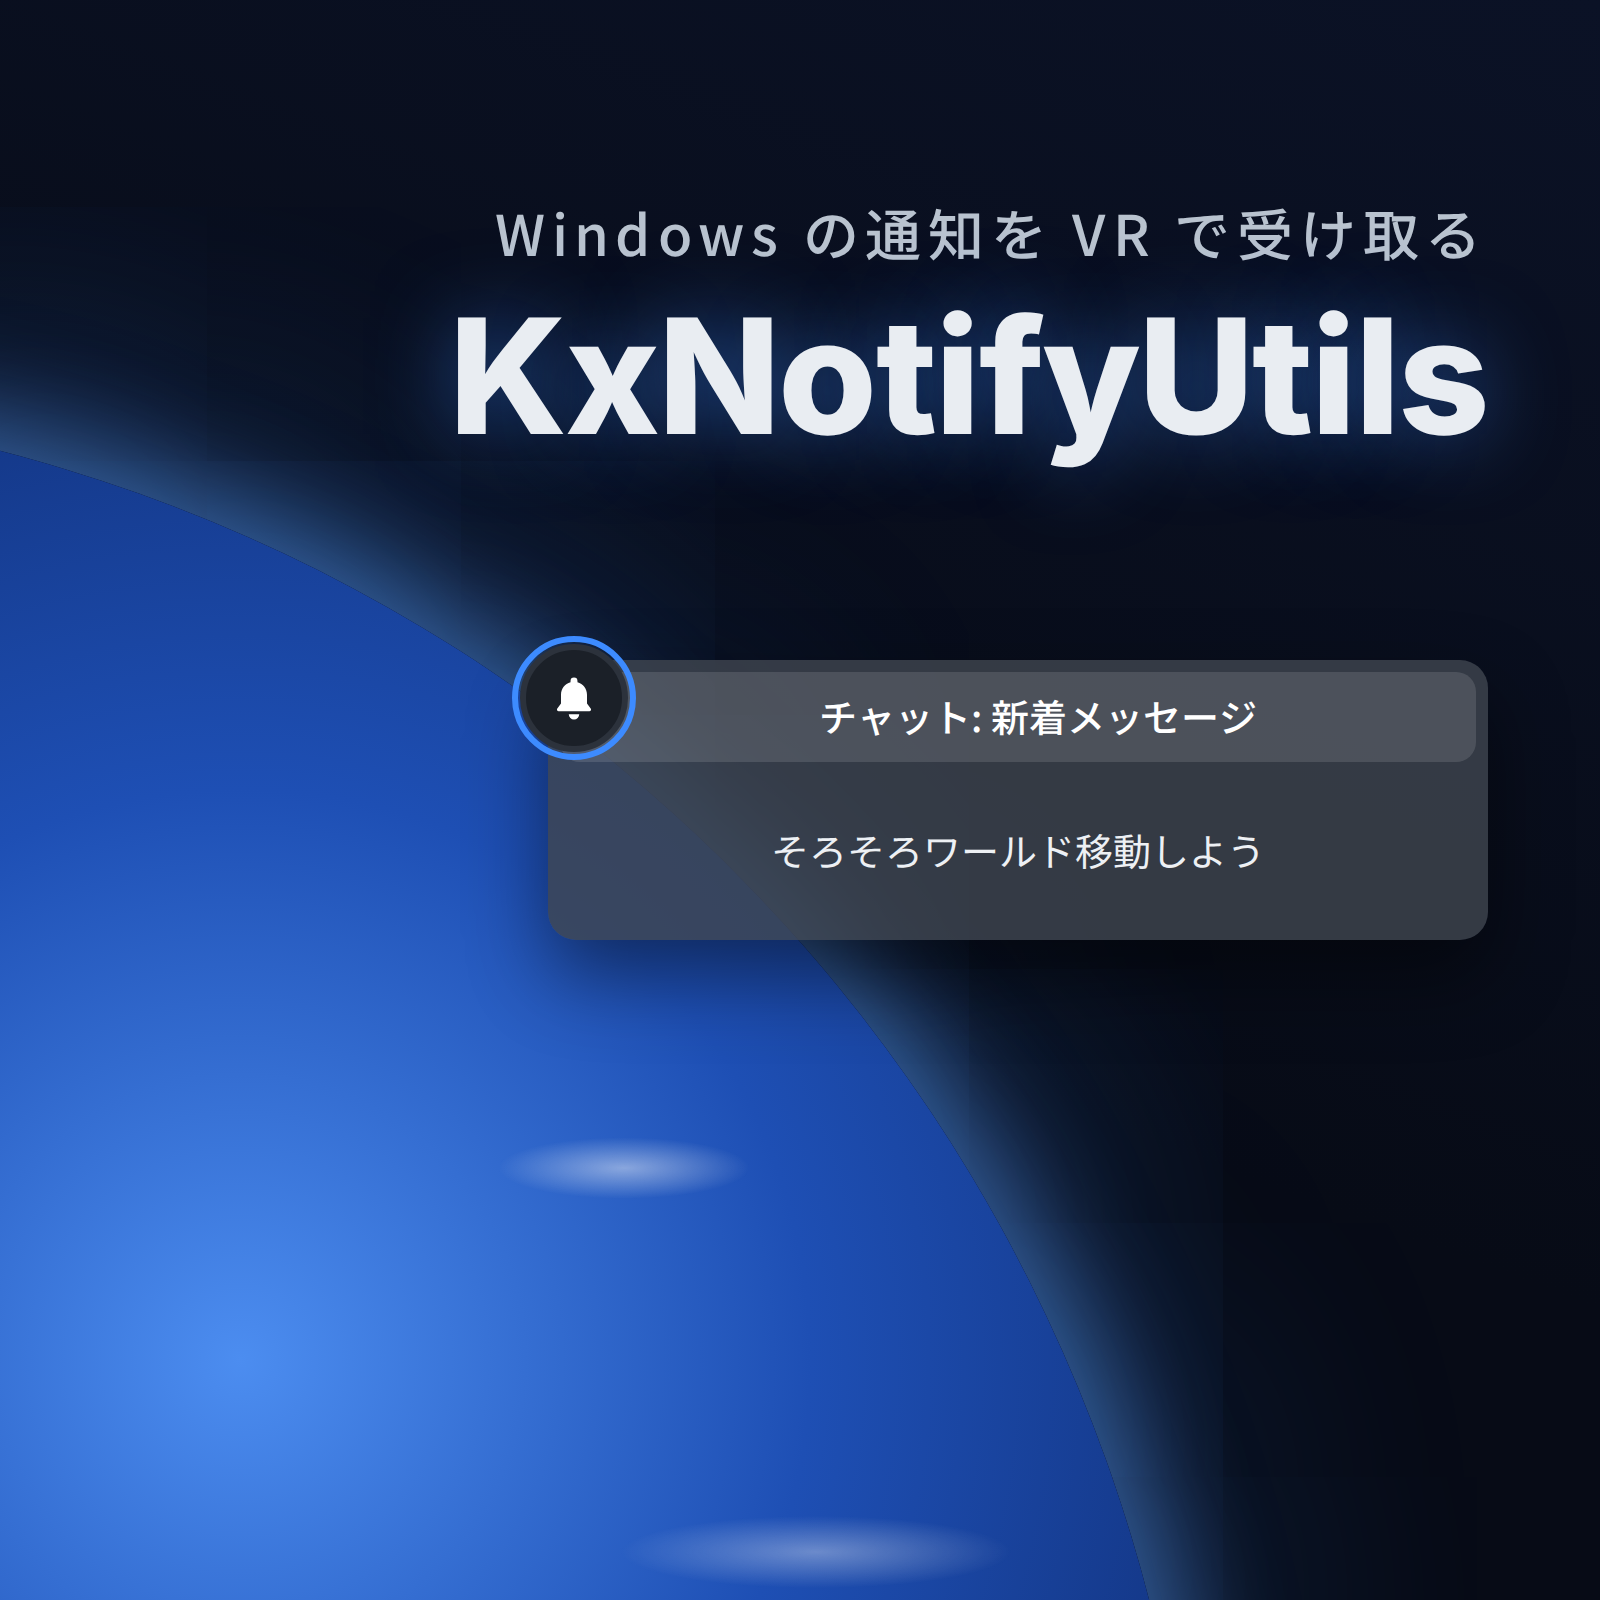
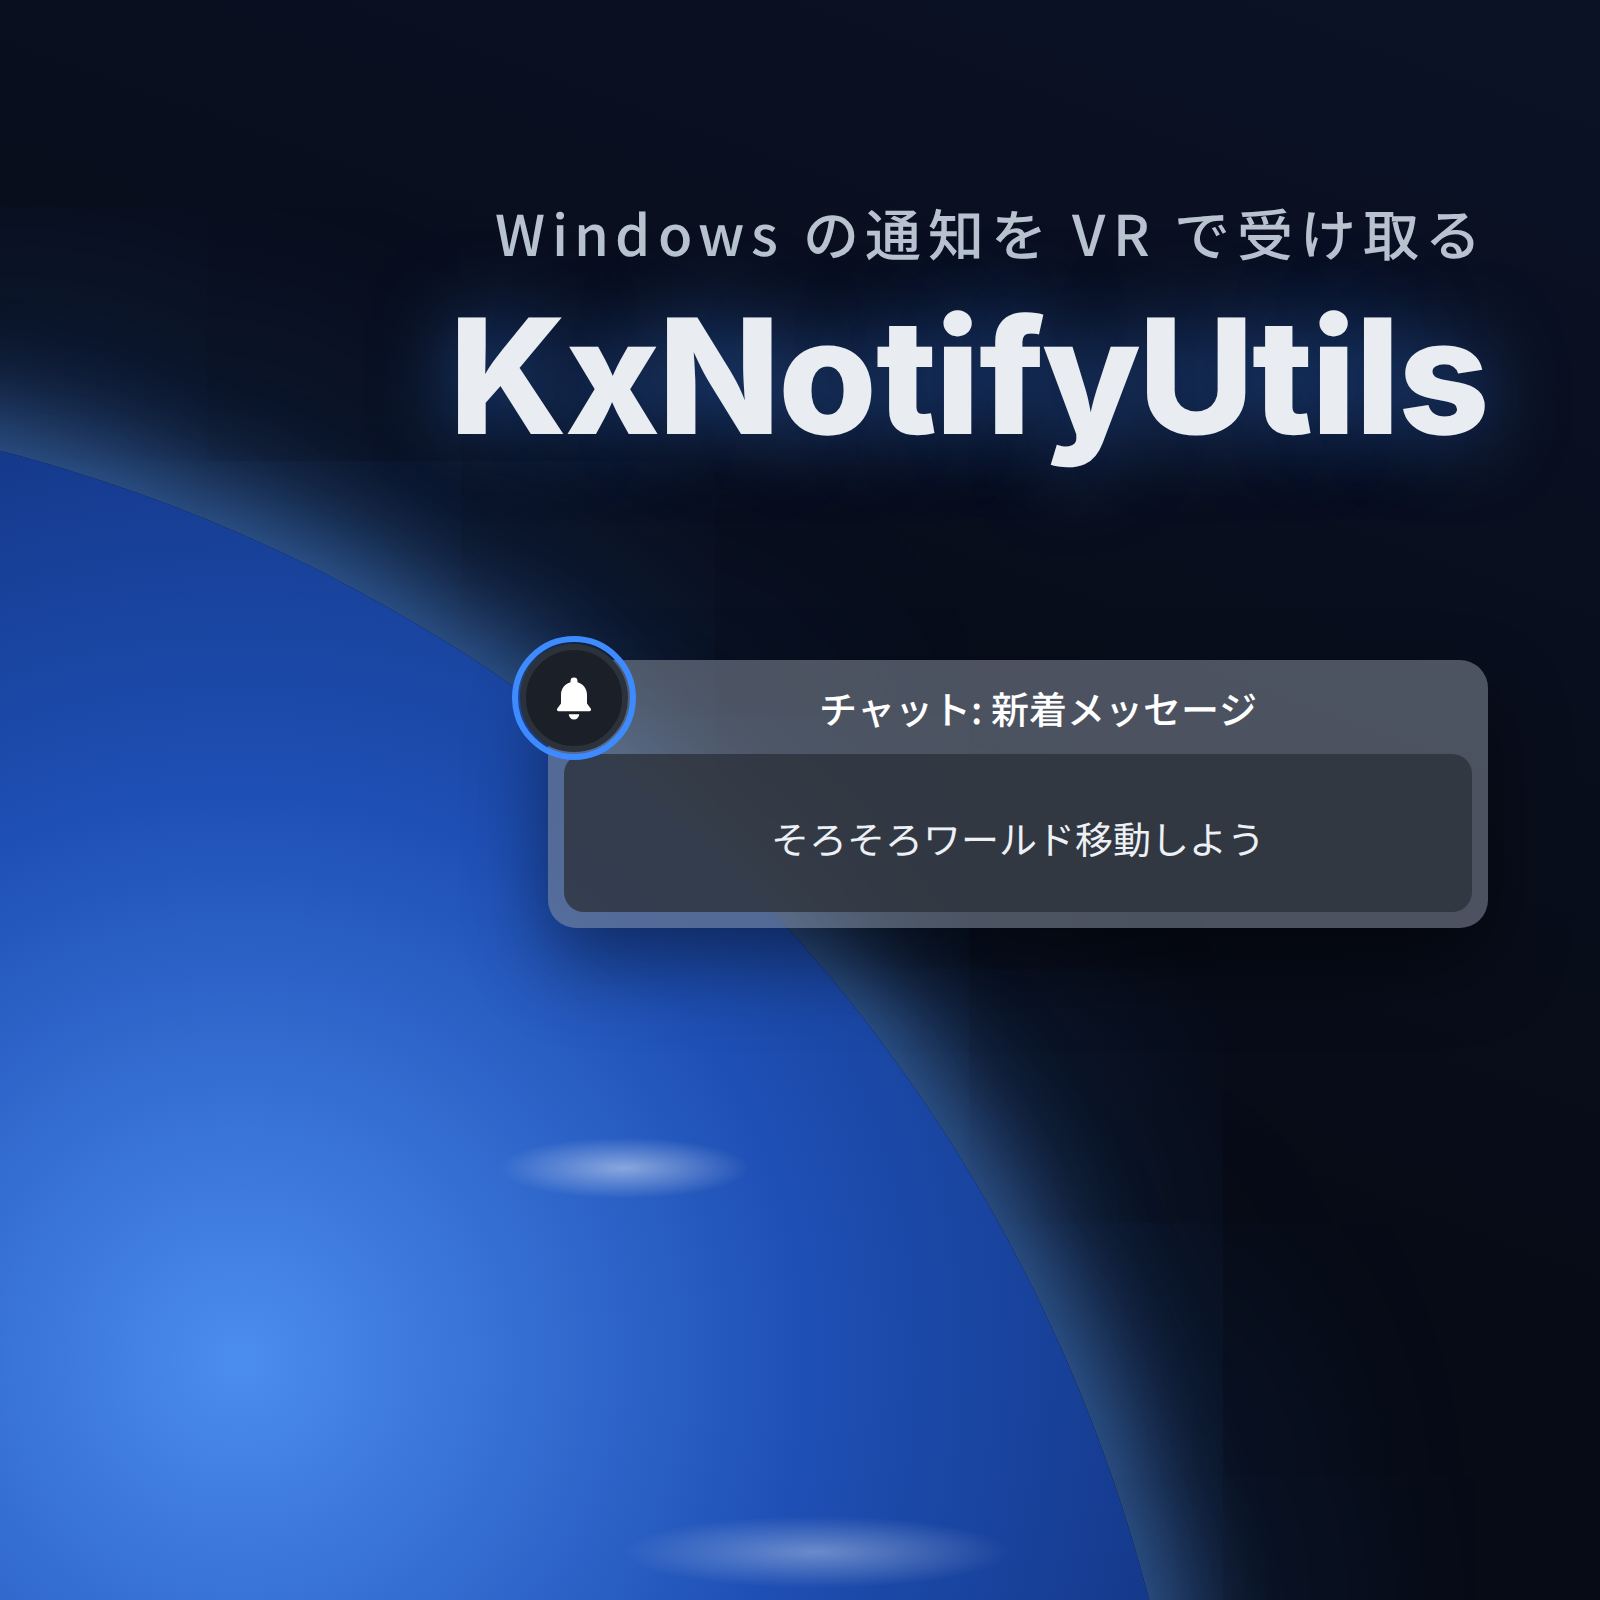
docs(booth): 通知を薄い土台に濃い本文の板を乗せる形にする
Claude-Session: https://claude.ai/code/session_01HaaNd64ErN2sput29WDtM3

Changed region(s): [[0.3438, 0.4062, 0.9375, 0.5938]]

diff --git a/booth/thumbnail.html b/booth/thumbnail.html
@@ -35,11 +35,11 @@
   .head .name { font-size: 92px; font-weight: 800; letter-spacing: -0.015em; line-height: 1.1; margin-top: 8px; }
 
   /* XSOverlay に実際に出る KxNotifyUtils の通知を模したカード。
-     半透明の灰色の板に、明るめのタイトル帯と本文。左上に丸いアイコンと青い弧が付く。 */
+     薄い灰色の土台にタイトルを置き、本文だけ濃い板に乗せる。左上に丸いアイコンと青い輪が付く。 */
   .toast {
     position: absolute; left: 190px; right: 190px;
-    background: rgba(62, 68, 78, 0.82);
-    border-radius: 14px; padding: 6px 6px 8px;
+    background: rgba(118, 126, 138, 0.62);
+    border-radius: 14px; padding: 0 8px 8px;
     text-align: center; color: #fff;
     box-shadow: 0 18px 40px rgba(0, 0, 0, 0.45);
   }
@@ -56,10 +56,9 @@
   .toast .ic svg { width: 26px; height: 26px; fill: #fff; }
   .toast .t {
     font-size: 19px; font-weight: 500; line-height: 1.3;
-    background: rgba(255, 255, 255, 0.12); border-radius: 10px;
-    padding: 10px 24px 10px 44px;
+    padding: 12px 24px 10px 44px;
   }
-  .toast .b { font-size: 19px; line-height: 1.45; padding: 30px 24px 24px; color: #EDF0F4; }
+  .toast .b { font-size: 19px; line-height: 1.45; padding: 28px 24px 24px; color: #EDF0F4; background: rgba(44, 49, 58, 0.78); border-radius: 10px; }
 
   /* JustNotification（星空と山の影、中央に一行と商品名、その下に通知）と構成が重ならないよう、
      星空と地平の影は使わず、文字も中央に積まない。 */
